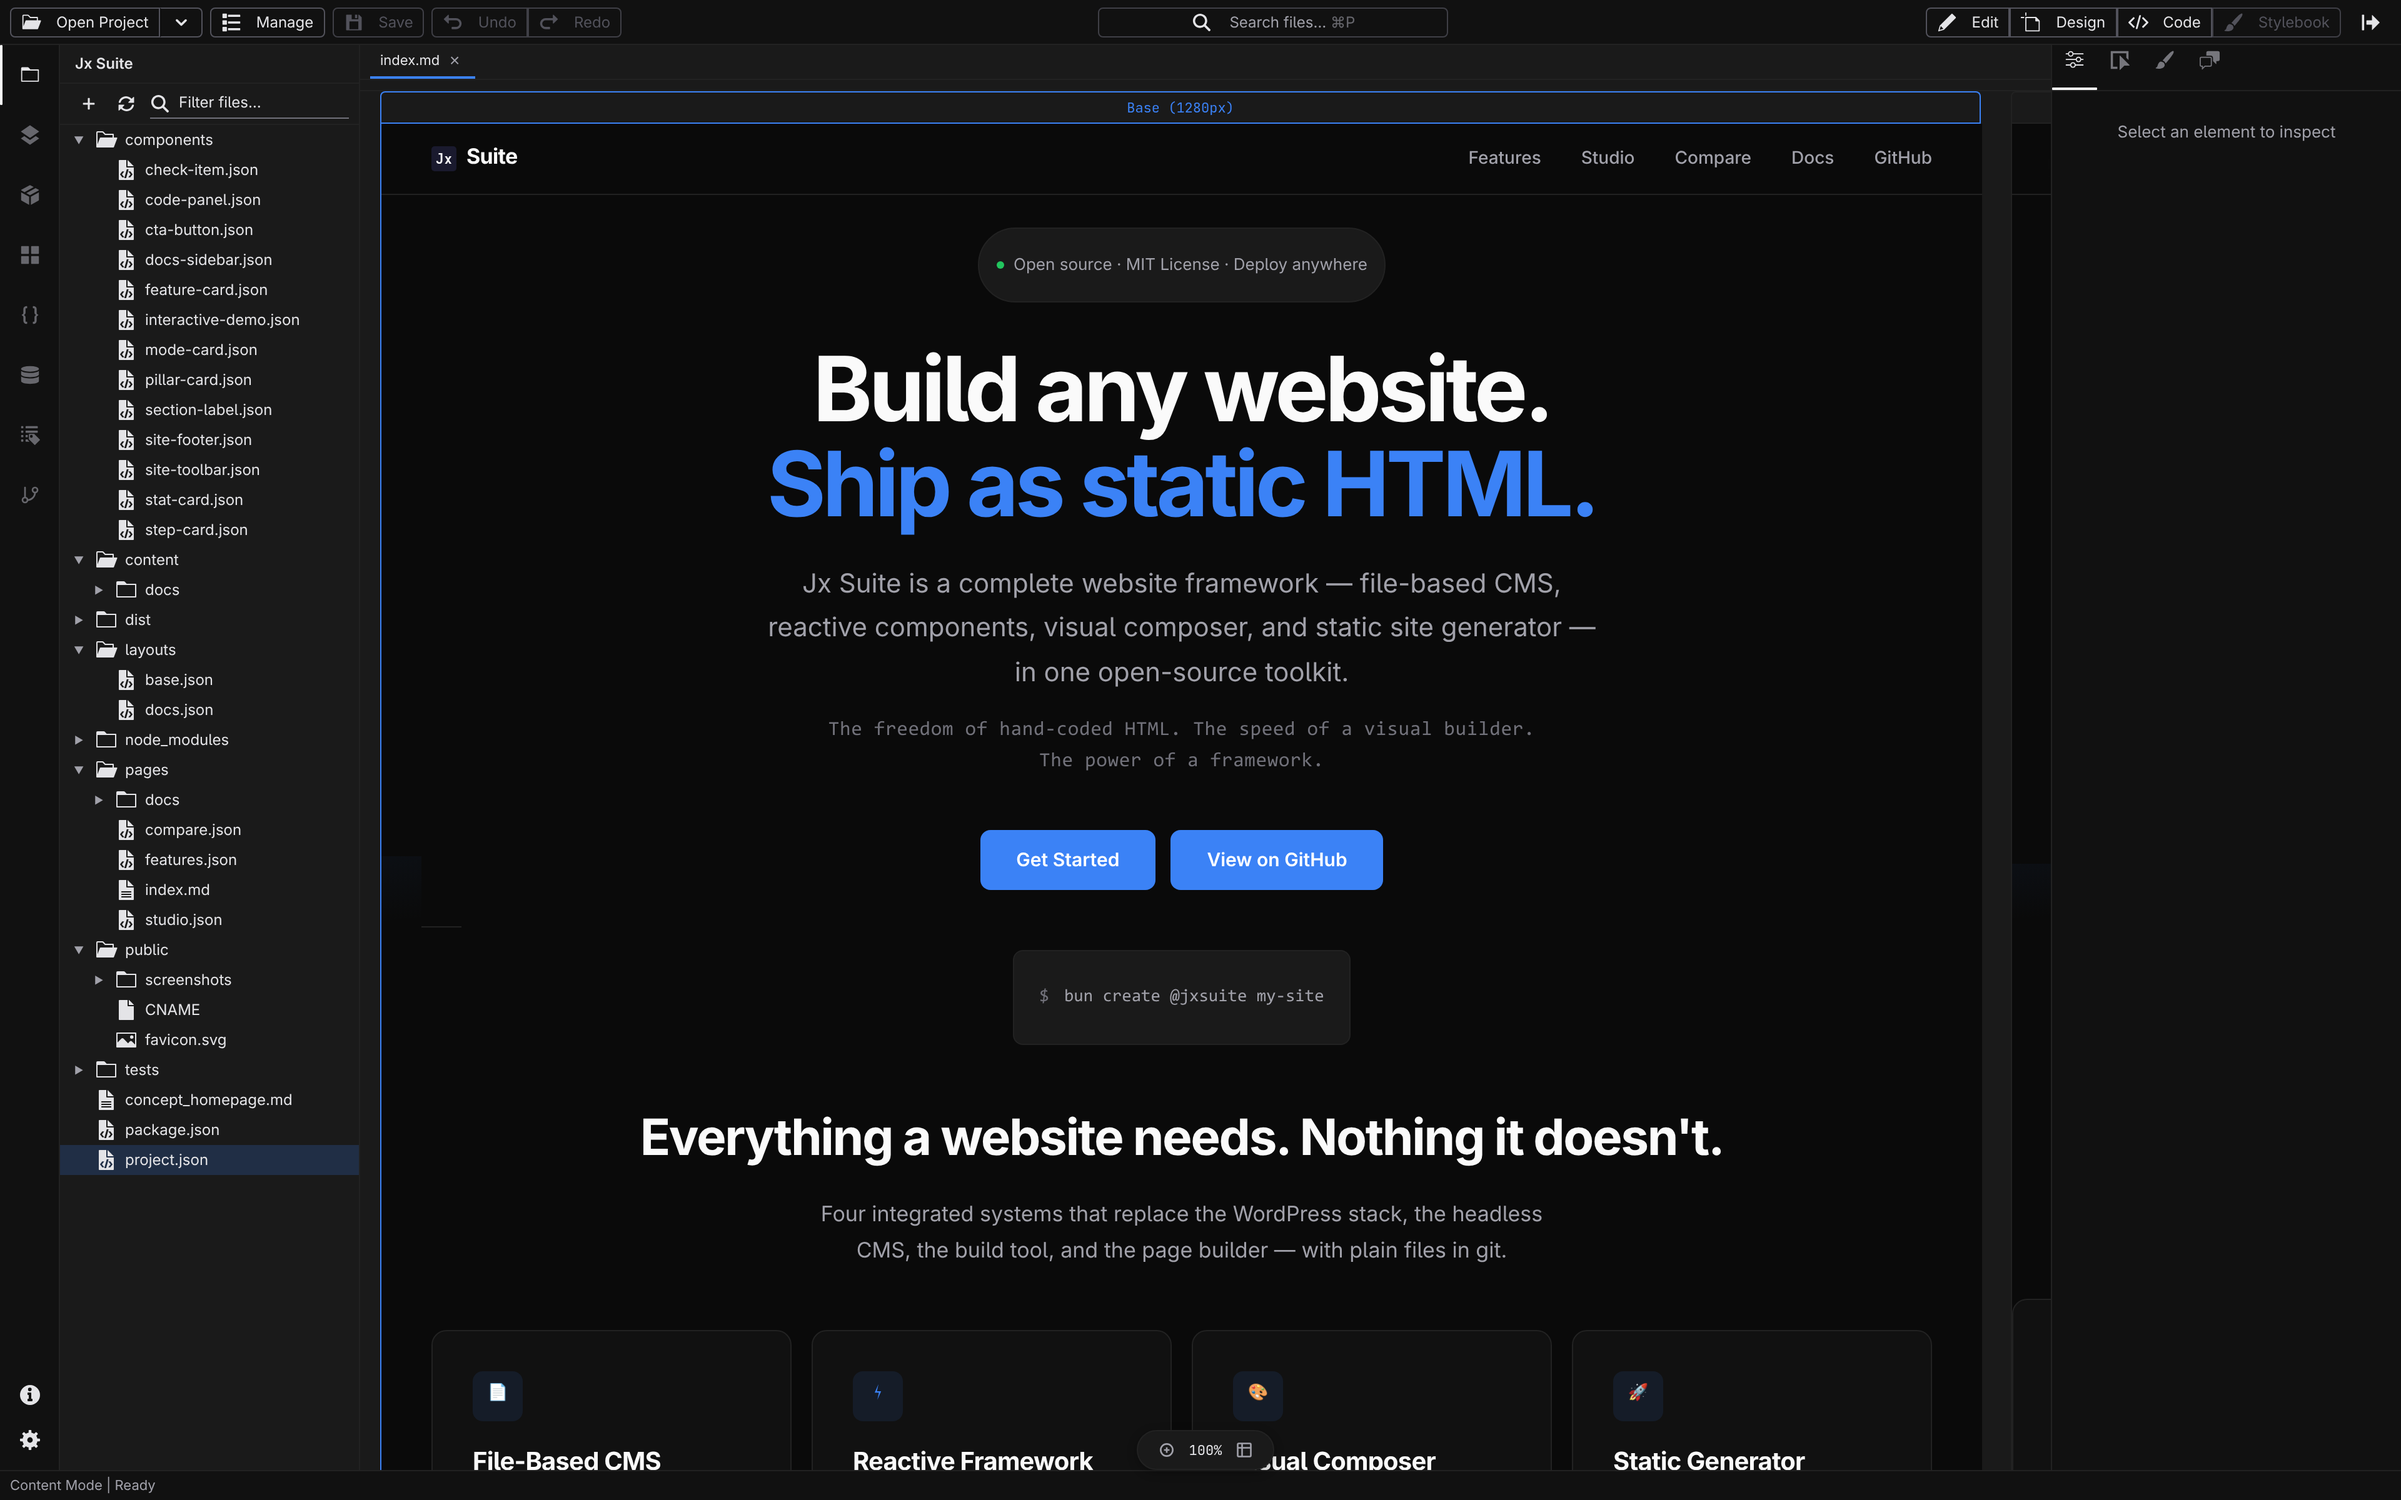
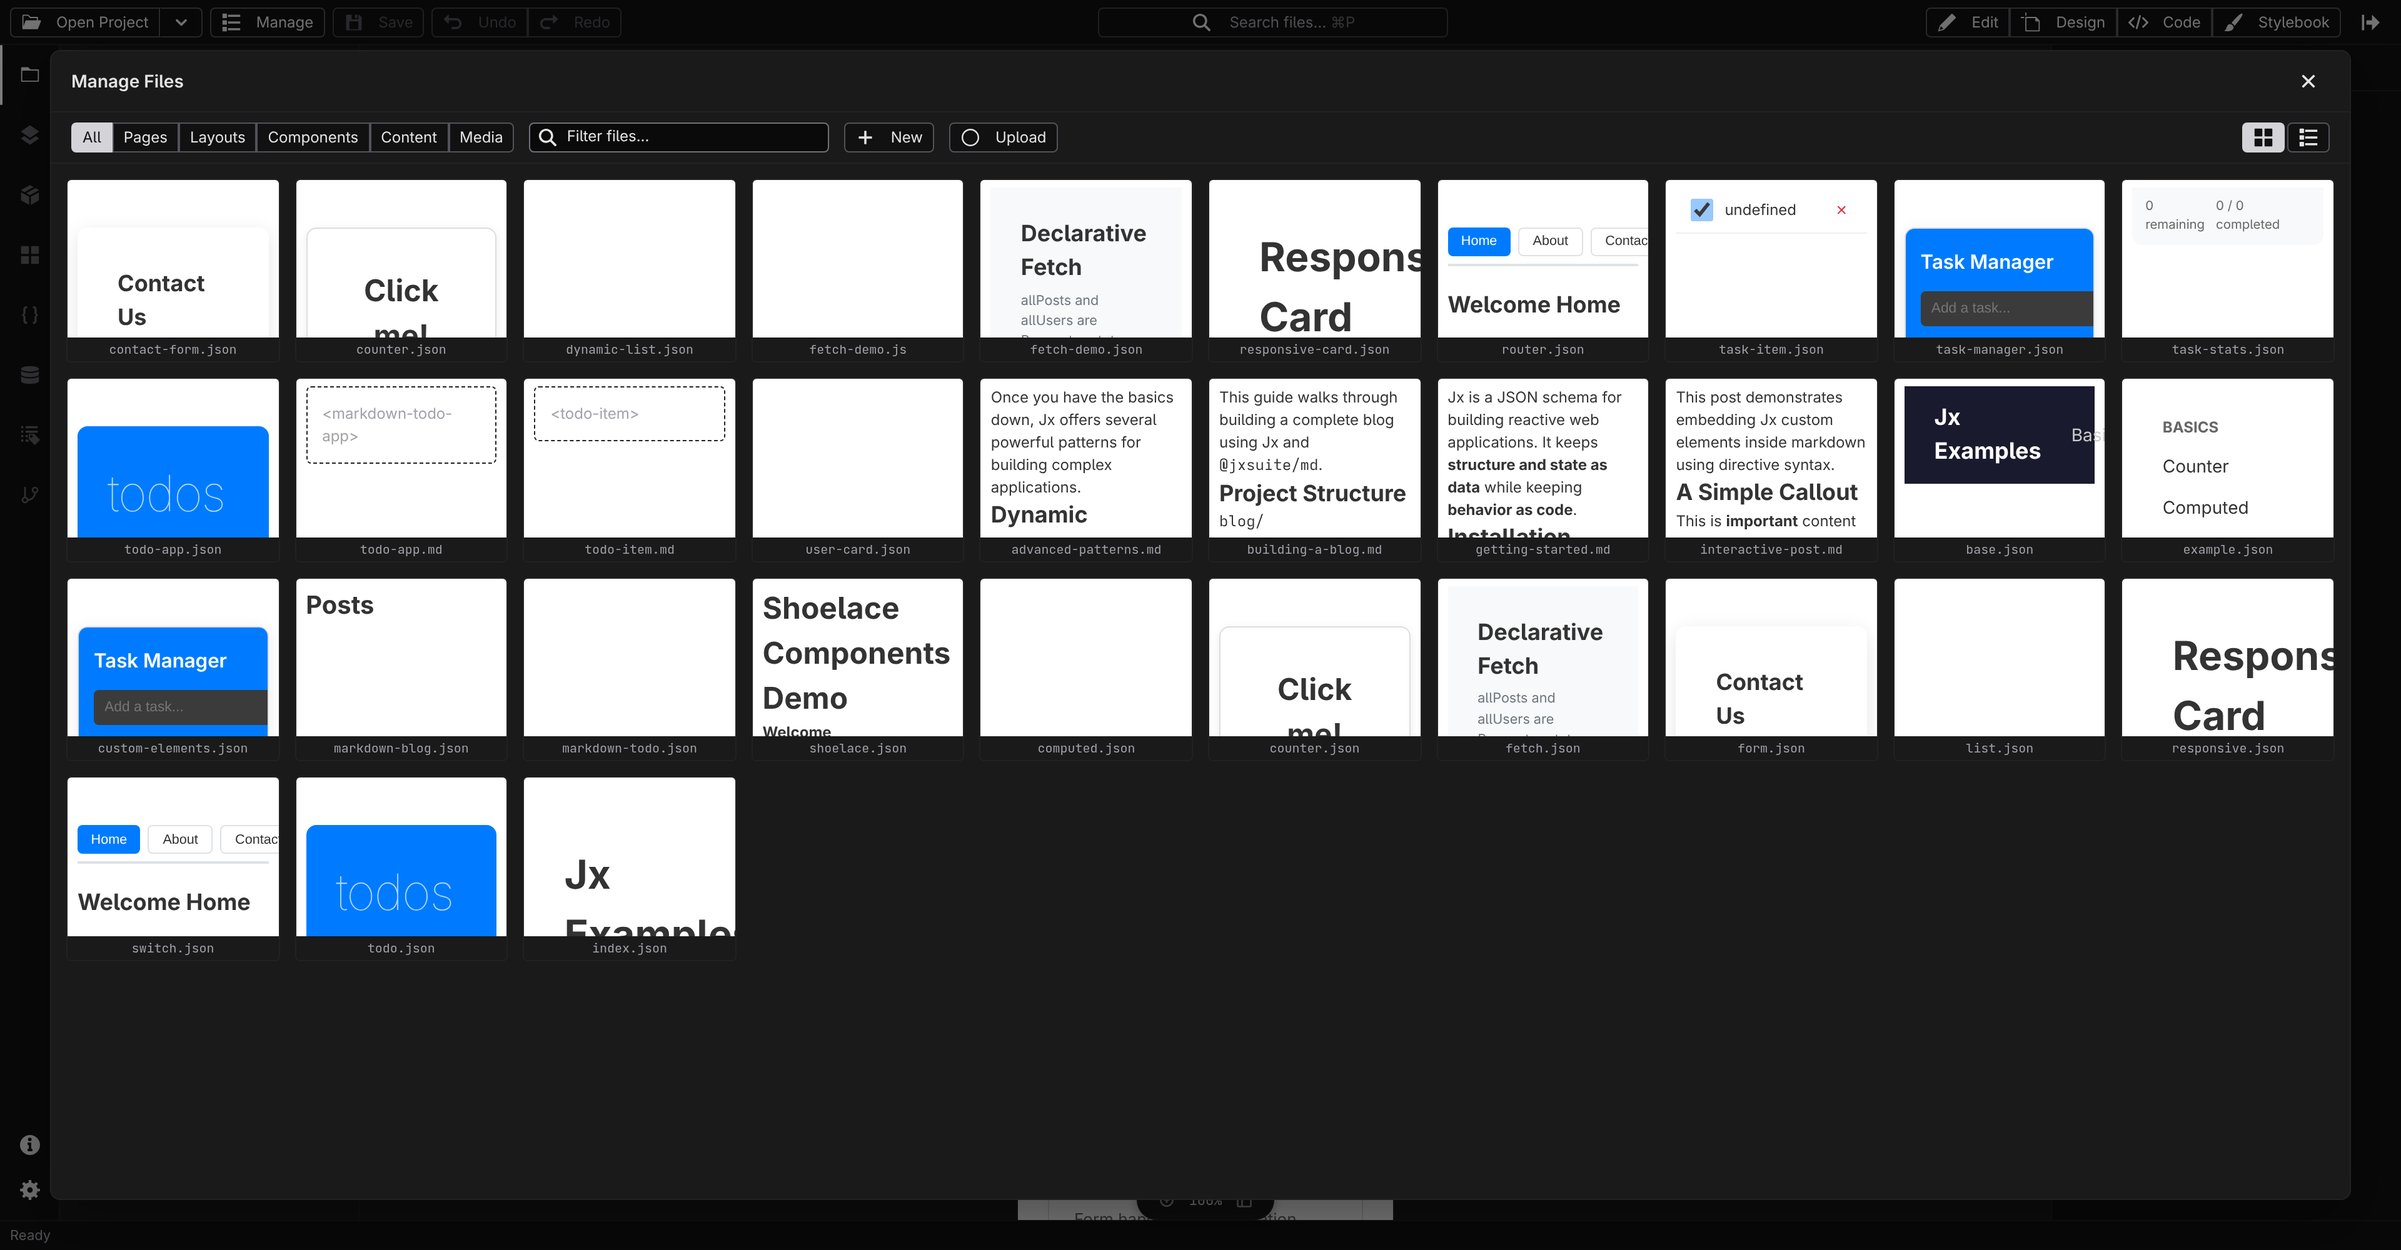
chore: update site screenshots

diff --git a/packages/studio/src/services/automation.ts b/packages/studio/src/services/automation.ts
@@ -14,9 +14,10 @@ import { activeTab, workspace } from "../workspace/workspace";
 import { applyPanelCollapse, view } from "../view";
 import type { JxPath } from "../state";
 
-/** Callbacks that live module-local to studio.ts and can't be imported here. */
+/** Callbacks injected from studio.ts (module-local helpers or imports kept out of this module). */
 export interface AutomationDeps {
   getCanvasMode: () => string;
+  openBrowseModal: () => void;
   render: () => void;
   renderActivityBar: () => void;
   setCanvasMode: (mode: string) => void;
@@ -26,6 +27,7 @@ export interface AutomationDeps {
 export interface AutomationApi {
   editDef: (defName: string) => void;
   editFunction: (path: JxPath, eventKey: string) => void;
+  openBrowse: () => void;
   getState: () => {
     activeTabId: string | null;
     canvasMode: string;
@@ -56,6 +58,9 @@ export function createAutomationApi(deps: AutomationDeps): AutomationApi {
     editFunction(path: JxPath, eventKey: string) {
       updateUi("editingFunction", { eventKey, path, type: "event" });
       deps.render();
+    },
+    openBrowse() {
+      deps.openBrowseModal();
     },
     getState() {
       return {

diff --git a/packages/studio/tests/automation.test.ts b/packages/studio/tests/automation.test.ts
@@ -11,6 +11,7 @@ const { activeTab, closeAllTabs } = await import("../src/workspace/workspace");
 const { updateCanvas } = await import("../src/store");
 
 function makeDeps(): AutomationDeps & {
+  openBrowseModal: ReturnType<typeof mock>;
   render: ReturnType<typeof mock>;
   renderActivityBar: ReturnType<typeof mock>;
   setCanvasMode: ReturnType<typeof mock>;
@@ -18,6 +19,7 @@ function makeDeps(): AutomationDeps & {
 } {
   return {
     getCanvasMode: () => "design",
+    openBrowseModal: mock(() => {}),
     render: mock(() => {}),
     renderActivityBar: mock(() => {}),
     setCanvasMode: mock(() => {}),
@@ -132,6 +134,12 @@ describe("createAutomationApi", () => {
     api.editDef("addItem");
     const ui = activeTab.value?.session.ui as unknown as Record<string, unknown>;
     expect(ui.editingFunction).toEqual({ defName: "addItem", type: "def" });
+  });
+
+  test("openBrowse delegates to the browse modal opener", () => {
+    const deps = makeDeps();
+    createAutomationApi(deps).openBrowse();
+    expect(deps.openBrowseModal).toHaveBeenCalledTimes(1);
   });
 
   test("setStatus delegates to statusMessage", () => {

diff --git a/packages/studio/src/studio.ts b/packages/studio/src/studio.ts
@@ -81,6 +81,7 @@ import { renderImportsTemplate } from "./panels/imports-panel";
 import { renderHeadTemplate } from "./panels/head-panel";
 import { exportCemManifest as _exportCemManifest } from "./services/cem-export";
 import { installAutomationHook } from "./services/automation";
+import { openBrowseModal } from "./browse/browse-modal";
 
 import { getPlatform, hasPlatform, registerPlatform } from "./platform";
 import { parseMediaEntries } from "./utils/canvas-media";
@@ -348,6 +349,7 @@ if (!hasPlatform()) {
 // Navigation, so the gated hook must install before the async deep-link project load below.
 installAutomationHook({
   getCanvasMode,
+  openBrowseModal,
   render,
   renderActivityBar,
   setCanvasMode,

diff --git a/scripts/screenshots/lib/types.ts b/scripts/screenshots/lib/types.ts
@@ -22,6 +22,7 @@ export type WaitCondition =
 export type ShotAction =
   | { defName: string; do: "editDef" }
   | { do: "editFunction"; eventKey: string; path: (string | number)[] }
+  | { do: "openBrowse" }
   | { do: "select"; path: (string | number)[] | null }
   | { do: "setActivity"; value: string }
   | { do: "setCanvasMode"; value: string }
@@ -86,6 +87,7 @@ const ACTION_KINDS = new Set([
   "click",
   "editDef",
   "editFunction",
+  "openBrowse",
   "select",
   "setActivity",
   "setCanvasMode",

diff --git a/scripts/screenshots/lib/shot.ts b/scripts/screenshots/lib/shot.ts
@@ -107,6 +107,10 @@ async function runAction(page: Page, action: ShotAction): Promise<void> {
       await hook(page, "editFunction", action.path, action.eventKey);
       return;
     }
+    case "openBrowse": {
+      await hook(page, "openBrowse");
+      return;
+    }
     case "select": {
       await hook(page, "select", action.path);
       return;

diff --git a/scripts/screenshots/README.md b/scripts/screenshots/README.md
@@ -41,6 +41,7 @@ support), waits for the canvas iframe to ack `renderComplete`, then applies acti
     { "do": "select", "path": ["children", 0] }, // select a node by JxPath
     { "do": "setRightTab", "value": "style" }, // properties|events|style
     { "do": "editDef", "defName": "addItem" }, // open Monaco on a state function
+    { "do": "openBrowse" }, // open the Manage Files modal
     { "do": "setZoom", "value": 0.9 },
     { "do": "setStatus", "value": "Ready" }, // normalize the status bar text
   ],
